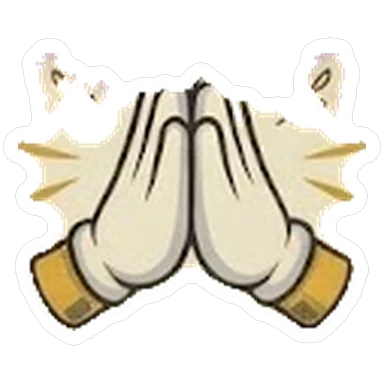
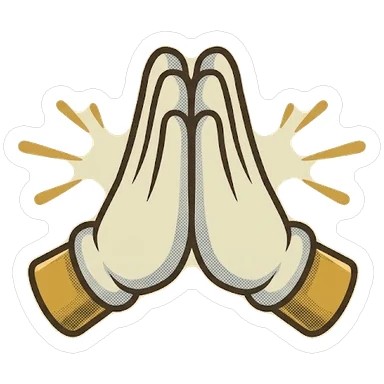
Nieuw plaatje voor sticker Alsjeblieft (f4-05), v167
Claude-Session: https://claude.ai/code/session_01Ax9TFAP9fNA6PxRXyMyiys

Changed region(s): [[0.0312, 0.0938, 0.9688, 0.9062]]

diff --git a/tests/gen/testscript_gebed.py b/tests/gen/testscript_gebed.py
@@ -1,0 +1,83 @@
+# testscript_gebed.py - veiligheid van maak-gebed.py (v167: een bestaand plaatje vervangen), naar testscript_stickertekst.py
+# python3 -I testscript_gebed.py <werkmap met nieuw/> <maak-gebed.py> [basis = oude map]
+import os, sys, shutil, subprocess, hashlib, json
+S, SCRIPT = sys.argv[1], sys.argv[2]
+T = S + '/test'
+def snap(d):
+    r = {}
+    for w, ms, bs in os.walk(d):
+        ms[:] = [m for m in ms if m != '.git']
+        for b in bs:
+            p = os.path.join(w, b); r[os.path.relpath(p, d)] = hashlib.md5(open(p, 'rb').read()).hexdigest()
+    return r
+BASIS = sys.argv[3] if len(sys.argv) > 3 else S + '/fibro'
+OUD = snap(BASIS); NIEUW = snap(S + '/nieuw')
+def vers(naam='Fibro', git=True):
+    d = os.path.join(T, 'w', naam)
+    shutil.rmtree(os.path.join(T, 'w'), ignore_errors=True)
+    shutil.copytree(BASIS, d, symlinks=True)
+    if git: os.mkdir(d + '/.git')
+    return d
+def draai(d, script=SCRIPT):
+    try:
+        r = subprocess.run([sys.executable, '-I', script], cwd=d, capture_output=True, text=True, timeout=15)
+    except subprocess.TimeoutExpired:
+        return 99, 'HANGT (afgebroken na 15 s)'
+    return r.returncode, (r.stdout + r.stderr).strip()
+uitslag = []
+def check(naam, ok, info=''):
+    uitslag.append(ok); print(('OK   ' if ok else 'MIS  ') + naam + ('  | ' + info.splitlines()[-1][:150] if info else ''))
+# 1 goed
+d = vers(); c, o = draai(d); check('goed: exit 0 en GOED', c == 0 and o.startswith('GOED'), o)
+check('goed: uitkomst gelijk aan nieuw/', snap(d) == NIEUW, str([k for k in set(snap(d)) | set(NIEUW) if snap(d).get(k) != NIEUW.get(k)][:5]))
+# 2 tweede keer
+c, o = draai(d); check('tweede keer: AL GEDAAN, exit 1', c == 1 and 'AL GEDAAN' in o and snap(d) == NIEUW, o)
+def onveranderd(naam, d, moet_bevatten):
+    voor = snap(d); c, o = draai(d); na = snap(d)
+    check(naam, c != 0 and 'Er is niets aangepast' in o and moet_bevatten in o and voor == na, o)
+regels = open(SCRIPT).read().split('\n')
+_b = regels.index('INHOUD = """'); _e = regels.index('"""', _b + 1)
+data_idx = [i for i in range(_b + 1, _e) if regels[i].strip()][:-1]  # laatste regel kan korter zijn
+data_idx_alle = [i for i in range(_b + 1, _e) if regels[i].strip()]
+def met(regels2):
+    p = T + '/mut.py'; open(p, 'w').write('\n'.join(regels2)); return p
+# 3 beschadigde inhoudsregel
+r2 = list(regels); i = data_idx[5]; r2[i] = ('A' if r2[i][10] != 'A' else 'B').join([r2[i][:10], r2[i][11:]])
+d = vers(); voor = snap(d); c, o = draai(d, met(r2)); check('beschadigde inhoudsregel', c != 0 and 'beschadigd' in o and snap(d) == voor, o)
+# 4 ontbrekende inhoudsregel
+r2 = list(regels); del r2[data_idx[3]]
+d = vers(); voor = snap(d); c, o = draai(d, met(r2)); check('ontbrekende inhoudsregel', c != 0 and 'inhoud onvolledig' in o and snap(d) == voor, o)
+# 5 verkeerde md5 (bestand anders)
+d = vers(); open(d + '/stickers/f4/05.webp', 'ab').write(b'x'); onveranderd('oud plaatje anders', d, 'anders dan verwacht')
+d = vers(); open(d + '/tests/LEESMIJ.txt', 'ab').write(b'x'); onveranderd('LEESMIJ.txt anders', d, 'anders dan verwacht')
+# 6 verkeerde map / geen .git
+d = vers('Fibro2'); onveranderd('verkeerde map', d, '~/Fibro')
+d = vers(git=False); onveranderd('geen .git', d, '~/Fibro')
+# 8 deels gedaan
+d = vers(); shutil.copy(S + '/nieuw/stickers/f4/05.webp', d + '/stickers/f4/05.webp'); onveranderd('deels gedaan (plaatje al vervangen)', d, 'deels gedaan')
+d = vers(); os.makedirs(d + '/tests/tools', exist_ok=True); open(d + '/tests/gen/testscript_gebed.py', 'w').write('iets anders'); onveranderd('nieuw bestand bestaat al', d, 'mag nog niet bestaan')
+# 9 vereist
+d = vers(); open(d + '/stickervellen.js', 'ab').write(b'//'); onveranderd('vereist bestand anders', d, 'stickervellen.js is anders')
+d = vers(); os.remove(d + '/tests/gen/maak_vel4.py'); onveranderd('vereist bestand weg (vorig script nog niet gedraaid)', d, 'maak_vel4.py ontbreekt')
+# 11 gewijzigd bestand ontbreekt
+d = vers(); os.remove(d + '/stickers/f4/05.webp'); onveranderd('oud plaatje ontbreekt', d, '05.webp ontbreekt')
+# 13 mutaties: elke regel weglaten
+onveilig = []; veilig = 0; zelfde = 0; hangt = []
+for i in range(len(regels)):
+    r2 = regels[:i] + regels[i + 1:]
+    d = vers(); voor = snap(d); c, o = draai(d, met(r2)); na = snap(d)
+    if na == voor and c == 99: hangt.append(i + 1)
+    if na == voor and (c != 0 or 'AL GEDAAN' in o): veilig += 1
+    elif na == NIEUW and c == 0: zelfde += 1
+    elif na == voor and c == 0 and o == '' and regels[i] == 'main()': veilig += 1  # doet niets; Marcel ziet geen GOED, controle met md5 vangt dit
+    else: onveilig.append((i + 1, regels[i][:60], c, o.splitlines()[-1][:100] if o else ''))
+print('  waarvan hangen (niets geschreven):', hangt, [regels[h - 1].strip()[:50] for h in hangt])
+check('mutaties (regel weg): %d veilig gestopt, %d zonder gevolg, %d onveilig' % (veilig, zelfde, len(onveilig)), not onveilig, str(onveilig[:5]))
+# 14 mutaties: elke inhoudsregel een teken anders
+mis = 0
+for i in data_idx_alle:
+    r2 = list(regels); r2[i] = ('x' if r2[i][0] != 'x' else 'y') + r2[i][1:]  # eerste teken: ook de laatste (korte) regel
+    d = vers(); voor = snap(d); c, o = draai(d, met(r2))
+    if not (c != 0 and snap(d) == voor): mis += 1
+check('mutaties (elke inhoudsregel beschadigd): %d van %d niet gestopt' % (mis, len(data_idx_alle)), mis == 0)
+print('UITSLAG: %d van %d goed' % (sum(uitslag), len(uitslag)))

diff --git a/tests/gen/bouw.py b/tests/gen/bouw.py
@@ -1,6 +1,7 @@
 # bouw.py - maakt een maak-<naam>.py voor Fibro (zie overdracht: Generator)
 # v156: nieuwe bestanden mogen ook plaatjes zijn (geen tekst): die gaan als base64 mee en worden als bytes geschreven.
 # v160: ook geluiden (.mp3, .wav).
+# v167: ook een bestaand plaatje of geluid vervangen (gewijzigd, als base64; de oude md5 wordt eerst nagekeken).
 import os, re, sys, json, zlib, base64, hashlib, binascii, difflib
 
 SAMENVOEG = 3  # wijzigingen die hoogstens zoveel regels uit elkaar liggen: een stuk
@@ -191,6 +192,12 @@ def main():
     # 5. Aanpassen, eerst alleen in het geheugen
     uit = {}
     for p in sorted(gew):
+        if isinstance(gew[p], dict):  # v167: plaatje of geluid vervangen
+            try:
+                uit[p] = base64.b64decode(gew[p]['b64'], validate=True)
+            except Exception:
+                stop('bestand %s is beschadigd. Plaats het script opnieuw.' % p)
+            continue
         tekst = lees(p).decode('utf-8')
         for k, (anker, vervang) in enumerate(gew[p], 1):
             n = tel(tekst, anker)
@@ -259,7 +266,10 @@ def bouw(naam, oudmap, nieuwmap, gewijzigd, nieuwe, oude_v, beschrijving, vereis
     for p in gewijzigd:
         o, n = lees(os.path.join(oudmap, p)), lees(os.path.join(nieuwmap, p))
         oud_md5[p], nieuw_md5[p], rg[p] = md5(o), md5(n), regels(n)
-        data['gewijzigd'][p] = stukken(o.decode('utf-8'), n.decode('utf-8'))
+        if os.path.splitext(p)[1].lower() in ('.webp', '.png', '.jpg', '.jpeg', '.gif', '.woff2', '.mp3', '.wav'):
+            data['gewijzigd'][p] = {'b64': base64.b64encode(n).decode('ascii')}  # v167: plaatje of geluid vervangen
+        else:
+            data['gewijzigd'][p] = stukken(o.decode('utf-8'), n.decode('utf-8'))
     for p in nieuwe:
         if os.path.exists(os.path.join(oudmap, p)):
             raise SystemExit('nieuw bestand bestaat al in oudmap: ' + p)

diff --git a/tests/gen/maak_gebed.py b/tests/gen/maak_gebed.py
@@ -1,0 +1,12 @@
+import sys
+sys.path.insert(0, sys.argv[1])
+from bouw import bouw
+S = sys.argv[2]
+r = bouw('gebed', S + '/oud', S + '/nieuw',
+    gewijzigd=['stickers/f4/05.webp', 'tests/gen/bouw.py', 'tests/LEESMIJ.txt'],
+    nieuwe=['tests/gen/maak_gebed.py', 'tests/gen/testscript_gebed.py'],
+    oude_v=[],
+    beschrijving="Nieuw plaatje voor sticker f4-05 (Alsjeblieft) (v167)",
+    vereist=['stickervellen.js', 'tests/gen/maak_vel4.py'],
+    uitpad=S + '/out/maak-gebed.py')
+print(r['inhoudsregels'])
